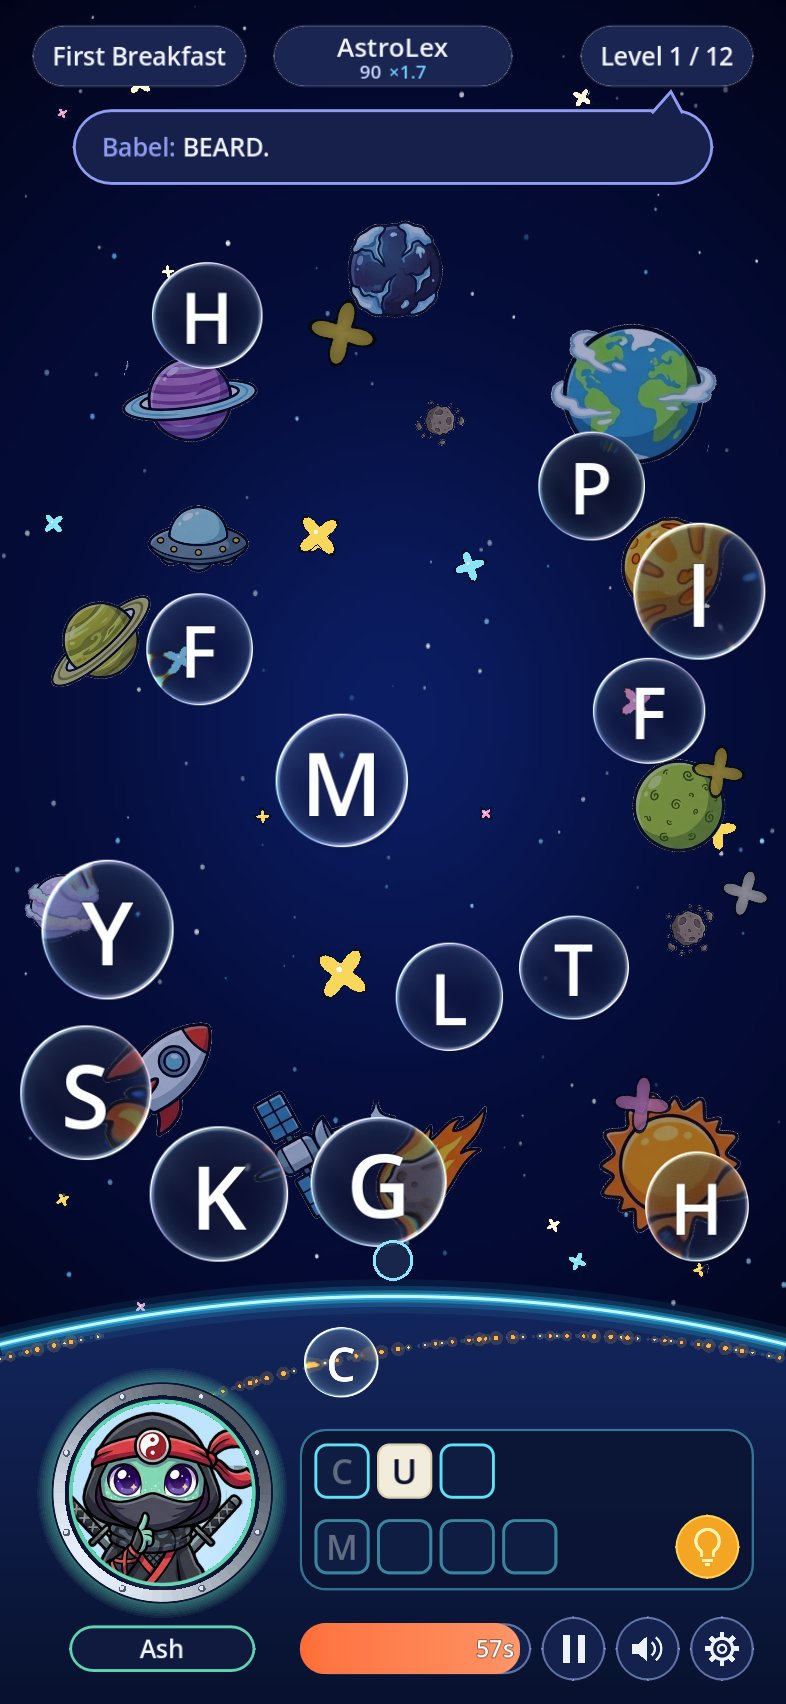
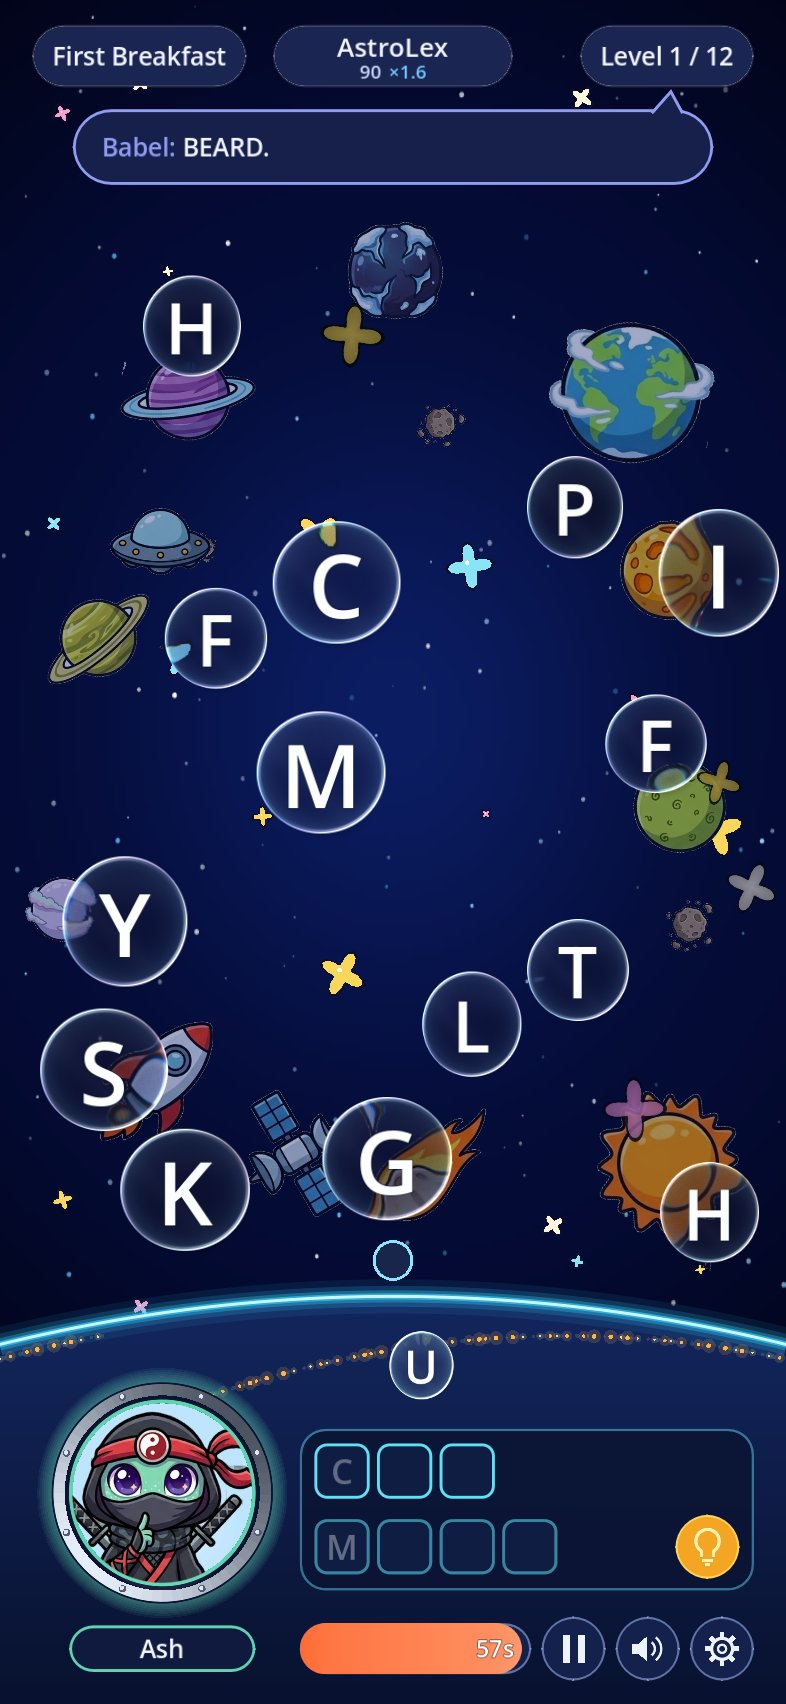
WP-3.J: bubbles about 5 px smaller on a phone (owner)
glass.bubbleScale 1.2 -> 1.12; letters and spacing unchanged.

Claude-Session: https://claude.ai/code/session_01FKb8eSDw83awM959Qn24cn

diff --git a/wps/WP-3.J.md b/wps/WP-3.J.md
@@ -3,7 +3,7 @@
 Owner feedback (13 Oct 2026, after WP-3.I merged): "can you make a letters a little bit more bigger", then, on colourful bubbles: "no just make the bubbles bigger, also i've noticed that the glass layout does not magnify the object behind. and it should look exactly like this" with a reference image of Apple-style liquid-glass controls (not committed: third-party art), "take the icon with the plus sign". Web only. Bubbles stay clear (no colour).
 
 ## Scope
-- **Bigger bubbles and letters:** `tile.size` 0.13 → 0.15 and `glass.bubbleScale` 1.25 → 1.2, so a front bubble is 0.18 of the field width (was 0.1625, +11 %). The glyph is `tile.glyphScale` 0.75 of the tile (was 0.68 of 0.13). `tile.minGap` stays 0.03, so bubbles still never touch.
+- **Bigger bubbles and letters:** `tile.size` 0.13 → 0.15 and `glass.bubbleScale` 1.25 → 1.12, so a front bubble is 0.168 of the field width (was 0.1625; the owner trimmed the first 0.18 by about 5 px on a phone). The glyph is `tile.glyphScale` 0.75 of the tile (was 0.68 of 0.13). `tile.minGap` stays 0.03, so bubbles still never touch.
 - **Room for them:** the spawner tries up to 256 spots and keeps the roomiest; after each refill and each tick, the separation runs a few passes so a crowded cluster settles.
 - **Liquid glass like the reference "+" disc:** the bubble reads the live screen and acts as a convex lens: what is behind (planets, rockets, stars) shows magnified, `glass.magnify` 0.12 at the centre and more toward the rim (`glass.rimBend` 0.9), with a slight colour split at the edge. A thin bright rim, brightest top-left and bottom-right, a faint iridescent edge and the soft drop shadow; no highlight spot. `glass.live` 0 falls back to the baked sky. The square glass look is unchanged.
 

diff --git a/reports/WP-3.J/evidence.md b/reports/WP-3.J/evidence.md
@@ -14,3 +14,4 @@ Notes
 - The live screen read is new for the web build. The earlier attempt (screen copy plus mipmaps) came out black and slow on iPhone Safari; this one has no mipmaps. It renders correctly in headless Chromium (SwiftShader); iPhone Safari is untested here. If it misbehaves there, `glass.live` 0 restores the baked-sky glass.
 - Screenshots: local web export in headless Chromium at `?autoplay=1` with a temporary character override that is not committed.
 - An earlier version of this branch tinted the bubbles in soft colours; the owner chose clear bubbles, so that was removed.
+- Owner, 14:22: "reduce the circles for like 4-5 px": `glass.bubbleScale` 1.2 → 1.12 (about 5 CSS px less on a 393-px-wide phone). Letters and spacing are unchanged.
